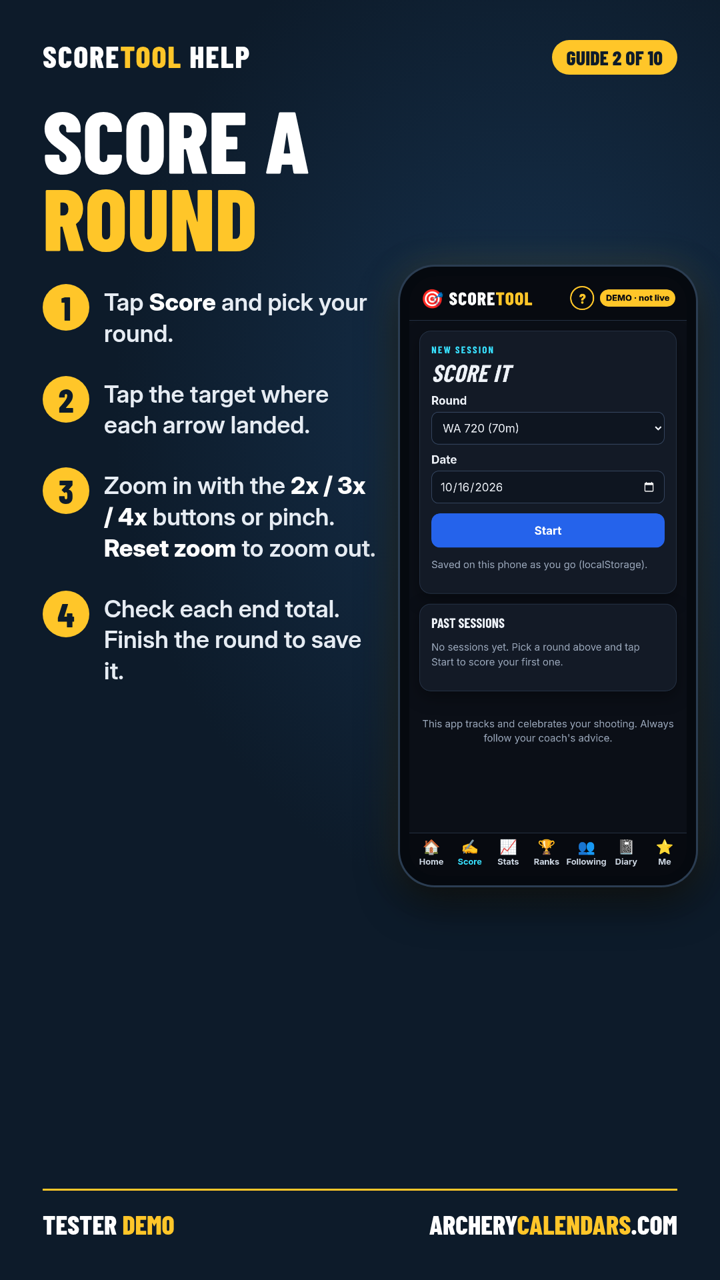
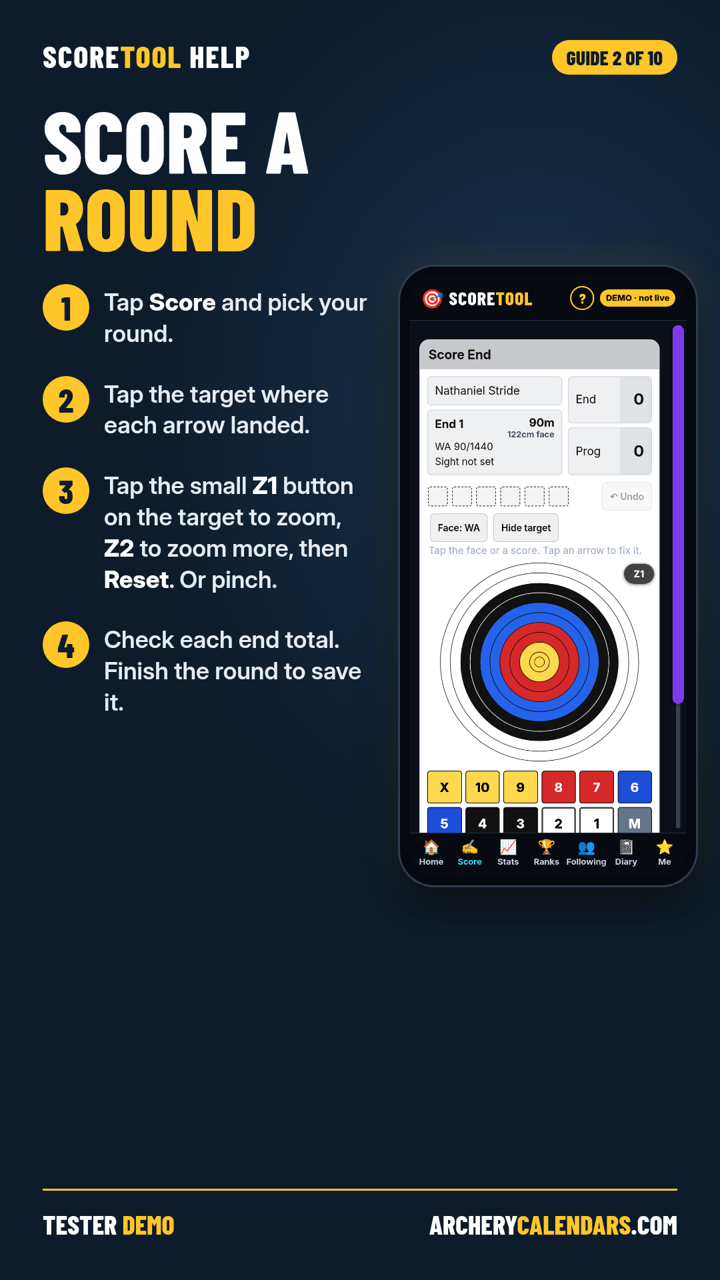
Scoring screen: one small zoom button cycling Z1 (2x) -> Z2 (3x) -> Reset in the target corner (pinch kept); face size moved from the target pill into the End card under the distance, round name on the second line; score keys highest first (X 10 9 8 7 6 / 5 4 3 2 1 M, field 6..1 M). Rename 'My other

Changed region(s): [[0.5806, 0.25, 0.9472, 0.6562], [0.0611, 0.375, 0.5194, 0.5625]]

diff --git a/app.js b/app.js
@@ -277,15 +277,15 @@ function score(){regCustom();if(!cur){if(crEdit)return roundForm();const mine=(S
  const FR0=faceR(R,ei),FR=cur.bugs?{face:'Bugs Eyes field 3-spot',bugs:true,dist:FR0.dist}:FR0,SP=isBug(FR)&&cur.spot?BUGC[cur.spot-1]:null,vb=SP?`${SP[0]-0.31} ${SP[1]-0.31} 0.62 0.62`:faceVB(FR),bcol=k=>isBug(FR)||isFld(FR)?(k=='M'?'k-m':+k>=5?'k-y':'k-k'):col(k),d=distOf(FR,cur.round);
  const shown=fix?[...(P[fix[0]]||[])].map((p,j)=>p&&{...p,sel:j==fix[1]}).filter(Boolean):(P[ei]||[]).filter(Boolean);
  const endDone=e.length==R.ape,prog=cur.ends.slice(0,ei+1).reduce((t,y)=>t+endSum(y),0),locked=endDone&&!fix;
- /* score keys in one or two compact rows, low to high (M 1 2 ... 10 X) */const xk=R.xs===false?[]:['X'],keys=isBug(FR)||isFld(FR)?['M','1','2','3','4','5','6']:['M',...(isSpot(FR)?['6','7','8','9','10']:isSix(FR)?['5','6','7','8','9','10']:['1','2','3','4','5','6','7','8','9','10']),...xk],kcols=keys.length>8?Math.ceil(keys.length/2):keys.length;
+ /* score keys in one or two compact rows, highest first (X 10 9 ... 1 M) */const xk=R.xs===false?[]:['X'],keys=isBug(FR)||isFld(FR)?['6','5','4','3','2','1','M']:[...xk,...(isSpot(FR)?['10','9','8','7','6']:isSix(FR)?['10','9','8','7','6','5']:['10','9','8','7','6','5','4','3','2','1']),'M'],kcols=keys.length>8?Math.ceil(keys.length/2):keys.length;
  const sm=typeof sightFor=='function'&&d?sightFor(d):'';
  const y0=scrollY;app.innerHTML=`<div class="ad"><div class="ad-title">Score End${R.custom?' · practice':''}</div>
- <div class="ad-head"><div class="ad-left"><div class="ad-box">${esc(S.profile)}</div><div class="ad-box"><div class="row"><b>End ${ei+1}</b><b>${esc(d||'')}</b></div><div>${esc(faceName(FR))}</div>${d?`<div class="small" id="sighttag">Sight ${sm?esc(sm):'not set'}</div>`:''}</div></div>
+ <div class="ad-head"><div class="ad-left"><div class="ad-box">${esc(S.profile)}</div><div class="ad-box"><div class="row ad-endrow"><b>End ${ei+1}</b><span class="ad-dist">${d?`<b id="enddist">${esc(d)}</b>`:''}<span id="facesize">${esc(faceSize(FR))}</span></span></div><div class="small" id="roundname">${esc(cur.round.replace(/\s*\([^)]*\)\s*$/,''))}</div>${d?`<div class="small" id="sighttag">Sight ${sm?esc(sm):'not set'}</div>`:''}</div></div>
  <div class="ad-right"><div class="ad-num"><span>End</span><b>${endSum(e)}</b></div><div class="ad-num"><span>Prog</span><b>${prog}</b></div></div></div>
  <div class="ad-chips" aria-label="Arrows this end">${Array.from({length:R.ape},(_,j)=>e[j]!=null?`<span class="adb ${bcol(e[j])}" role="button" tabindex="0" data-fix="${ei},${j}" aria-label="fix arrow ${e[j]}"${fix&&fix[0]==ei&&fix[1]==j?' style="outline:3px solid #7c3aed;outline-offset:2px"':''}>${e[j]}</span>`:'<span class="adb adb-empty"></span>').join('')}
  <button class="ad-small" id="undo" ${cur.ends.some(x=>x.length)&&!fix?'':'disabled'}>↶ Undo</button>${ei>0&&!fix?`<button class="ad-small" id="prevend">‹ End ${ei}</button>`:''}${fix?`<button class="ad-small" id="delarrow">✕ Delete arrow</button><button class="ad-small" id="fixcancel">Done</button>`:''}<button class="ad-small" id="bugface" aria-pressed="${!!cur.bugs}">${cur.bugs?'Face: Bugs Eyes':'Face: WA'}</button><button class="ad-small" id="hideface" aria-pressed="${!!S.hideFace}">${S.hideFace?'Show target':'Hide target'}</button></div>
  <p class="small muted" style="margin:2px 12px">${fix?'Tap the face or a score to fix this arrow.':locked?'End complete. Tap an arrow to fix it, or press Next.':'Tap the face or a score. Tap an arrow to fix it.'}</p>
- ${S.hideFace?'':`<div class="zbar" role="group" aria-label="Target zoom">${[1,2,3].map(k=>`<button class="zb${Math.round(PZ.k)==k&&(k>1||PZ.k==1)?' on':''}" data-z="${k}" aria-label="Zoom ${k}x">${k}x</button>`).join('')}<button class="zb" id="zreset" ${PZ.k==1?'disabled':''}>Reset zoom</button><span class="small muted">or pinch target</span></div>${isBug(FR)?`<div class="zbar" role="group" aria-label="Spot">${[0,1,2,3].map(n=>`<button class="zb${(cur.spot||0)==n?' on':''}" data-spot="${n}">${n?'Spot '+n:'All spots'}</button>`).join('')}</div>`:''}<div id="fwrap" style="position:relative;width:100%;height:${SP?"min(340px,40vh,40dvh)":isBug(FR)?"min(320px,calc(100vh - 530px),calc(100dvh - 530px))":"min(290px,36vh,36dvh)"};margin:0 auto;overflow:hidden;touch-action:none;border-radius:8px">${faceSVG(shown,'pface',vb,FR).replace('width="100%"','width="100%" height="100%"')}<div class="facetag" id="facetag" aria-hidden="true">${esc(faceTag(FR,d))}</div><div id="loupe" hidden style="position:absolute;width:110px;height:110px;border-radius:50%;overflow:hidden;border:3px solid #111;box-shadow:0 2px 8px #0006;pointer-events:none;background:#fff"></div></div>`}
+ ${S.hideFace?'':`${isBug(FR)?`<div class="zbar" role="group" aria-label="Spot">${[0,1,2,3].map(n=>`<button class="zb${(cur.spot||0)==n?' on':''}" data-spot="${n}">${n?'Spot '+n:'All spots'}</button>`).join('')}</div>`:''}<div id="fwrap" style="position:relative;width:100%;height:${SP?"min(340px,40vh,40dvh)":isBug(FR)?"min(320px,calc(100vh - 530px),calc(100dvh - 530px))":"min(290px,36vh,36dvh)"};margin:0 auto;overflow:hidden;touch-action:none;border-radius:8px">${faceSVG(shown,'pface',vb,FR).replace('width="100%"','width="100%" height="100%"')}<button type="button" class="zcyc" id="zcycle"></button><div id="loupe" hidden style="position:absolute;width:110px;height:110px;border-radius:50%;overflow:hidden;border:3px solid #111;box-shadow:0 2px 8px #0006;pointer-events:none;background:#fff"></div></div>`}
  <div class="ad-pad" style="--cols:${kcols}">${keys.map(k=>`<button class="${bcol(k)}" data-k="${k}" aria-label="score ${k}" ${locked?'disabled':''}>${k}</button>`).join('')}</div>
  <div class="ad-foot"><button class="ad-back" id="eback">‹ Back</button><button class="ad-go" id="enext" ${endDone&&!fix?'':'disabled'}>Next ›</button></div></div>`;
  scrollTo(0,y0);{const pd=app.querySelector('.ad-pad'),nv=document.querySelector('nav'),ak=cur.date+'|'+cur.round+'|'+ei+'|'+(cur.spot||0)+'|'+!!cur.bugs;if(pd){const fw0=$('#fwrap'),ch0=app.querySelector('.ad-chips'),hd0=(document.querySelector('header.top')||{getBoundingClientRect:()=>({bottom:0})}).getBoundingClientRect().bottom+4,lim0=innerHeight-(nv?nv.getBoundingClientRect().height:0)-8,need0=pd.getBoundingClientRect().bottom-ch0.getBoundingClientRect().top;if(fw0&&need0>lim0-hd0)fw0.style.height=Math.max(180,fw0.offsetHeight-(need0-(lim0-hd0)))+'px'}if(pd&&window._adk!==ak)window._adk=ak,requestAnimationFrame(()=>{const lim=innerHeight-(nv?nv.getBoundingClientRect().height:0)-8,hd=(document.querySelector('header.top')||{getBoundingClientRect:()=>({bottom:0})}).getBoundingClientRect().bottom+4,ch=app.querySelector('.ad-chips'),fw=$('#fwrap');let need=pd.getBoundingClientRect().bottom-ch.getBoundingClientRect().top,av=lim-hd;if(need>av&&fw){fw.style.height=Math.max(180,fw.offsetHeight-(need-av))+'px'}const over=Math.min(pd.getBoundingClientRect().bottom-lim,ch.getBoundingClientRect().top-hd);if(over>0)scrollBy(0,over)})}
@@ -295,9 +295,9 @@ function score(){regCustom();if(!cur){if(crEdit)return roundForm();const mine=(S
  app.querySelectorAll('[data-k]').forEach(b=>b.onclick=()=>putArrow(b.dataset.k,null));
  const f=$('#pface');if(f){const L=$('#loupe'),W=$('#fwrap');const B=vb.split(/[ ,]+/).map(Number),bc=[B[0]+B[2]/2,B[1]+B[3]/2];
   const clampZ=()=>{PZ.k=Math.min(4,Math.max(1,PZ.k));const fr=f.getBoundingClientRect(),ar=(fr.width||1)/(fr.height||1),Ew=Math.max(B[2],B[3]*ar),Eh=Math.max(B[3],B[2]/ar);const m=Ew/2*(1-1/PZ.k);PZ.cx=Math.min(m,Math.max(-m,PZ.cx));const my=Eh/2*(1-1/PZ.k);PZ.cy=Math.min(my,Math.max(-my,PZ.cy));if(PZ.k==1)PZ.cx=PZ.cy=0};
-  const applyZ=()=>{clampZ();const w=B[2]/PZ.k,h=B[3]/PZ.k;f.setAttribute('viewBox',`${bc[0]+PZ.cx-w/2} ${bc[1]+PZ.cy-h/2} ${w} ${h}`);app.querySelectorAll('[data-z]').forEach(x=>x.classList.toggle('on',PZ.k>1?Math.round(PZ.k)==+x.dataset.z:x.dataset.z=='1'));const r=$('#zreset');if(r)r.disabled=PZ.k==1};
+  const applyZ=()=>{clampZ();const w=B[2]/PZ.k,h=B[3]/PZ.k;f.setAttribute('viewBox',`${bc[0]+PZ.cx-w/2} ${bc[1]+PZ.cy-h/2} ${w} ${h}`);const zc=$('#zcycle');if(zc){const st=zStep(PZ.k);zc.textContent=['Z1','Z2','Reset'][st];zc.setAttribute('aria-label',['Zoom in to 2x','Zoom in to 3x','Reset zoom'][st]);zc.classList.toggle('on',st>0)}};
   f.style.touchAction='none';W.style.touchAction='none';W.style.overscrollBehavior='contain';let pan=null;applyZ();
-  app.querySelectorAll('[data-z]').forEach(x=>x.onclick=()=>{PZ.k=+x.dataset.z;applyZ()});$('#zreset').onclick=()=>{PZ.k=1;applyZ()};
+  /* one small button cycles Z1 (2x) -> Z2 (3x) -> Reset (1x); its label is what the next tap does. Pinch still works. */$('#zcycle').onclick=ev=>{ev.stopPropagation();const st=zStep(PZ.k);PZ.k=ZLV[(st+1)%3];if(PZ.k==1)PZ.cx=PZ.cy=0;applyZ()};
   const pt=ev=>{const q=f.createSVGPoint();q.x=ev.clientX;q.y=ev.clientY;return q.matrixTransform(f.getScreenCTM().inverse())};
   const show=ev=>{const q=pt(ev),r=W.getBoundingClientRect();L.hidden=false;L.style.left=Math.max(4,Math.min(r.width-114,ev.clientX-r.left-55))+'px';L.style.top=Math.max(4,Math.min(r.height-114,ev.clientY-r.top-150))+'px';const lw=0.24/PZ.k;
    L.innerHTML=faceSVG(shown,'lf',`${q.x-lw/2} ${q.y-lw/2} ${lw} ${lw}`,FR,`<path d="M${q.x-lw/6} ${q.y}h${lw/3}M${q.x} ${q.y-lw/6}v${lw/3}" stroke="#a855f7" stroke-width="${0.006/PZ.k}"/><circle cx="${q.x}" cy="${q.y}" r="${0.012/PZ.k}" fill="none" stroke="#a855f7" stroke-width="${0.004/PZ.k}"/>`)+`<b style="position:absolute;bottom:4px;left:0;right:0;text-align:center;font-size:13px;background:#fffc">${plotScore(q.x,q.y,Object.assign({xs:R.xs},FR))}</b>`};
@@ -332,7 +332,8 @@ function score(){regCustom();if(!cur){if(crEdit)return roundForm();const mine=(S
  $('#eback').onclick=()=>{fix=null;fixRet=false;justDone=false;sv='sheet';score()};
  $('#enext').onclick=()=>{justDone=false;sv='sheet';score()}}
 const faceName=F=>F.bugs?'Bugs Eyes field 3-spot (6-1)':/field/.test(F.face||'')?'WA field face 20-80cm (6-1)':F.face=='any'?'Full 10-ring face':`${/^\d/.test(F.face)?'WA ':''}${F.face.replace(/ full$/,'').replace(/ (6-ring|3-spot)/,' ($1)')}`;
-const faceTag=(F,d)=>(F.bugs?'Bugs Eyes':/field/.test(F.face||'')?'Field face':F.face=='any'?'Full face':(((F.face||'').match(/(\d+)cm/)||[])[1]?(F.face.match(/(\d+)cm/)[1]+'cm face'):'Full face'))+(d?' · '+d:'');
+const ZLV=[1,2,3],zStep=k=>k<=1.001?0:k<2.999?1:2;/* 0: normal (shows Z1), 1: zoomed below 3x (shows Z2), 2: 3x or more (shows Reset) */
+const faceSize=F=>F.bugs?'Bugs Eyes 3-spot':isFld(F)?(((F.face||'').match(/(\d+(?:-\d+)?)cm/)||[])[1]||'')+'cm field face':F.face=='any'?'Full face':(m=>m?m[1]+'cm '+(isSix(F)?'6-ring':isSpot(F)?'3-spot':'face'):'Full face')((F.face||'').match(/(\d+)cm/));
 const distOf=(F,round)=>F.dist||((round.match(/(\d+(?:m|yd))/)||[])[1])||'';
 function sheetSections(s){const R=ROUNDS[s.round],out=[];s.ends.forEach((x,i)=>{const F=faceR(R,i),k=faceName(F)+(distOf(F,s.round)?' @ '+distOf(F,s.round):'');if(!out.length||out[out.length-1].k!=k)out.push({k,ends:[]});out[out.length-1].ends.push(i)});return out}
 var PZ=window.PZ||(window.PZ={k:1,cx:0,cy:0});

diff --git a/index.html b/index.html
@@ -1,7 +1,7 @@
 <!doctype html><html lang="en"><head><meta charset="utf-8"><meta name="viewport" content="width=device-width,initial-scale=1,maximum-scale=1,user-scalable=no,viewport-fit=cover">
-<title>ScoreTool demo · Archery Calendars</title><meta name="robots" content="noindex"><link rel="apple-touch-icon" href="icons/apple-touch-icon.png" sizes="180x180"><link rel="icon" type="image/png" href="favicon-32.png" sizes="32x32"><link rel="icon" type="image/png" href="favicon-16.png" sizes="16x16"><link rel="icon" href="favicon.ico" sizes="any"><link rel="icon" type="image/svg+xml" href="icons/icon.svg"><link rel="stylesheet" href="style.css?v=202610171614"><link rel="manifest" href="manifest.webmanifest"><meta name="theme-color" content="#0b0f17"><meta name="apple-mobile-web-app-capable" content="yes"><meta name="apple-mobile-web-app-title" content="ScoreTool"></head>
+<title>ScoreTool demo · Archery Calendars</title><meta name="robots" content="noindex"><link rel="apple-touch-icon" href="icons/apple-touch-icon.png" sizes="180x180"><link rel="icon" type="image/png" href="favicon-32.png" sizes="32x32"><link rel="icon" type="image/png" href="favicon-16.png" sizes="16x16"><link rel="icon" href="favicon.ico" sizes="any"><link rel="icon" type="image/svg+xml" href="icons/icon.svg"><link rel="stylesheet" href="style.css?v=202610171629"><link rel="manifest" href="manifest.webmanifest"><meta name="theme-color" content="#0b0f17"><meta name="apple-mobile-web-app-capable" content="yes"><meta name="apple-mobile-web-app-title" content="ScoreTool"></head>
 <body><header class="top"><div class="logo">🎯 Score<span>Tool</span></div><span class="demo-pill">DEMO · not live</span></header>
 <main id="app" aria-live="polite"></main><p class="small muted" style="text-align:center;margin:8px 16px 90px">This app tracks and celebrates your shooting. Always follow your coach's advice.</p>
 <nav class="tabs" id="tabs" aria-label="Sections">
 <button data-v="home">🏠<span>Home</span></button><button data-v="score">✍<span>Score</span></button><button data-v="stats">📈<span>Stats</span></button><button data-v="rewards">🏆<span>Ranks</span></button><button data-v="follow">👥<span>Following</span></button><button data-v="diary">📓<span>Diary</span></button><button data-v="me">⭐<span>Me</span></button></nav>
-<script src="coach_messages.js"></script><script src="ratings.js"></script><script src="rankings.js"></script><script src="tags.js?v=202610171614"></script><script src="testers.js?v=202610171614"></script><script src="app.js?v=202610171614"></script><script src="diary.js"></script><script src="gear.js"></script><script src="rewards.js"></script><script src="squads.js"></script><script src="fairplay.js"></script><script src="follow.js"></script><script src="help.js?v=202610171614"></script><script src="analytics.js?v=202610171614"></script><script src="insights.js?v=202610171614"></script><script src="best.js?v=202610171614"></script><script src="update.js?v=202610171614"></script></body></html>
+<script src="coach_messages.js"></script><script src="ratings.js"></script><script src="rankings.js"></script><script src="tags.js?v=202610171629"></script><script src="testers.js?v=202610171629"></script><script src="app.js?v=202610171629"></script><script src="diary.js"></script><script src="gear.js"></script><script src="rewards.js"></script><script src="squads.js"></script><script src="fairplay.js"></script><script src="follow.js"></script><script src="help.js?v=202610171629"></script><script src="analytics.js?v=202610171629"></script><script src="insights.js?v=202610171629"></script><script src="best.js?v=202610171629"></script><script src="update.js?v=202610171629"></script></body></html>

diff --git a/rewards.js b/rewards.js
@@ -212,7 +212,7 @@ function drawRecap(st,mn){const c=$('#rcv'),x=c.getContext('2d');const g=x.creat
  T.forEach(([k,v],i)=>{const cx=70+(i%2)*480,cy=380+Math.floor(i/2)*260;x.fillStyle='rgba(255,255,255,.06)';x.fillRect(cx,cy,440,220);x.fillStyle='#9aa7ba';x.font='700 36px Inter,sans-serif';x.fillText(k,cx+30,cy+60);x.fillStyle='#eef2f8';x.font='800 120px "Barlow Condensed",sans-serif';x.fillText(String(v),cx+30,cy+180)});
  x.fillStyle='#eef2f8';x.font='800 48px "Barlow Condensed",sans-serif';x.fillText('SCORE',70,1280);const w1=x.measureText('SCORE').width;x.fillStyle='#ffc629';x.fillText('TOOL',70+w1,1280);const w2=x.measureText('TOOL').width;x.fillStyle='#9aa7ba';x.font='500 30px Inter,sans-serif';x.fillText('archery calendars',90+w1+w2,1278)}
 window.EXTRA_VIEWS.recap=recapView;
-/* ---------- My other apps: archer's own links to outside apps. Stored locally. Quick-add example chips pre-fill the form; nothing is added until the archer taps Add. ---------- */
+/* ---------- Apps I use (internal id oapps / S.apps unchanged): archer's own links to outside apps. Stored locally. Quick-add example chips pre-fill the form; nothing is added until the archer taps Add. ---------- */
 const APP_CATS=['Sight marks','Video','Tuning','Other'];
 function appKind(u){try{const x=new URL(u);return/apps\.apple\.com$/.test(x.hostname)?'ios':/play\.google\.com$/.test(x.hostname)?'play':'web'}catch(e){return'web'}}
 const titleCase=t=>t.replace(/[-_.]+/g,' ').replace(/\b\w/g,c=>c.toUpperCase()).trim();
@@ -229,7 +229,7 @@ function appRec(a,old){const n=new Date().toISOString();return{id:(old&&old.id)|
 const isIOS=()=>/iPhone|iPad|iPod/.test(navigator.userAgent);
 function addApp(raw,cat){const u=normUrl(raw);if(!u)return false;S.apps=S.apps||[];if(!S.apps.some(a=>a.url==u))S.apps.push(appRec({url:u,name:appName(u)||u,cat:cat||''}));save();return true}
 function otherAppsCard(){const L=S.apps=S.apps||[],e=appEdit!=null?L[appEdit]:null;
- return`<div class="card" id="oapps"><span class="kicker">My other apps</span><h2>My other apps</h2>
+ return`<div class="card" id="oapps"><span class="kicker">Linked apps</span><h2>Apps I use</h2>
  ${L.length?L.map((a,i)=>`<div class="list-item row"><span style="min-width:0">${appIcon(a)}<a href="${esc(a.url)}" target="_blank" rel="noopener noreferrer"><b>${esc(a.name)}</b> ↗</a>${a.cat?` <span class="pill t-none">${esc(a.cat)}</span>`:''}<br><span class="small muted" style="word-break:break-all">${esc(a.url)}</span></span><span style="flex:0 0 auto"><button class="btn ghost" data-ae="${i}" style="padding:4px 10px;min-height:34px">Edit</button> <button class="btn ghost" data-ad="${i}" style="padding:4px 10px;min-height:34px">Delete</button></span></div>`).join(''):'<p class="muted">Add the apps you use for sight marks, video and tuning.</p>'}
  ${e?'':`<button class="btn full" id="apaste" style="margin-top:6px">Paste link</button><p class="small muted" style="margin:6px 0 0">${isIOS()?'Copy the app\'s link (in the App Store tap Share, then Copy Link), then tap Paste.':'Copy the app\'s link, then tap Paste. On Android you can also Share a Play Store or web link straight to ScoreTool once it\'s installed.'}</p>`}
  ${e?'':`<p class="small" style="margin:10px 0 4px"><b>Examples</b> (tap to fill in, then Add):</p><div style="display:flex;flex-wrap:wrap;gap:6px">${APP_EXAMPLES.map((x,i)=>`<button class="btn ghost" data-aex="${i}" style="padding:6px 10px;min-height:34px">+ ${esc(x[0])}</button>`).join('')}</div>`}

diff --git a/help.js b/help.js
@@ -1,16 +1,16 @@
 /* Help (?) posters + Send a suggestion (FormSubmit -> nfshold@gmail.com, same pattern as archerycalendars.com forms). */
 const HELP_POSTERS=[['01-getting-started','Getting started & picking your tester'],['02-scoring','Scoring a round: plot arrows, zoom'],['03-practice-goal','Practice arrows & daily goal'],
  ['04-stats','Stats: pick a round'],['05-ranks','Ranks, badges, XP & fair play'],['06-squads','Squads: join with a code, cheers'],['07-following','Following other archers'],
- ['08-other-apps','My other apps: Precision Cut, Garmin & more'],['09-diary','Diary'],['10-suggestion','Sending a suggestion']];
+ ['08-other-apps','Apps I use: Precision Cut, Garmin & more'],['09-diary','Diary'],['10-suggestion','Sending a suggestion']];
 const FORM_URL='https://formsubmit.co/nfshold@gmail.com';
 let lastTab='home';
 (function(){const top=document.querySelector('.top');if(top){const b=document.createElement('button');b.className='help-btn';b.setAttribute('aria-label','Help');b.textContent='?';b.onclick=()=>nav('help');top.appendChild(b)}
  const o=window.nav;window.nav=function(v){if(v!='help'&&v!='suggest')lastTab=v;return o(v)}})();
 function helpCards(){return`<div class="card"><span class="kicker">Help</span><h2>How to use ScoreTool</h2><p class="small">Quick picture guides for every part of the app.</p><button class="btn" onclick="nav('help')">Open Help</button> <button class="btn ghost" onclick="nav('suggest')">Send a suggestion</button></div>`}
 function helpView(){app.innerHTML=`<div class="card dark"><span class="kicker">Help</span><h1>How to use ScoreTool</h1><p>Tap a guide to see it full screen.</p></div>
-<div class="poster-grid">${HELP_POSTERS.map(([f,t])=>`<button class="poster" data-f="${f}"><img loading="lazy" src="help/${f}.png?v=20261016c" alt="${t}"><span>${t}</span></button>`).join('')}</div>
+<div class="poster-grid">${HELP_POSTERS.map(([f,t])=>`<button class="poster" data-f="${f}"><img loading="lazy" src="help/${f}.png?v=20261017a" alt="${t}"><span>${t}</span></button>`).join('')}</div>
 <div class="card"><h2>Got an idea or found a bug?</h2><button class="btn full" onclick="nav('suggest')">Send a suggestion</button></div>`;
- app.querySelectorAll('.poster').forEach(b=>b.onclick=()=>{const d=document.createElement('div');d.className='poster-full';d.innerHTML=`<img src="help/${b.dataset.f}.png?v=20261016c" alt=""><button class="btn" aria-label="Close">Close ✕</button>`;d.onclick=()=>d.remove();document.body.appendChild(d)})}
+ app.querySelectorAll('.poster').forEach(b=>b.onclick=()=>{const d=document.createElement('div');d.className='poster-full';d.innerHTML=`<img src="help/${b.dataset.f}.png?v=20261017a" alt=""><button class="btn" aria-label="Close">Close ✕</button>`;d.onclick=()=>d.remove();document.body.appendChild(d)})}
 function suggestView(){const who=TESTER?TESTER.name:'',tabs=['Home','Score','Stats','Ranks','Following','Diary','Me','Squads','Help','Other'],cur=(lastTab||'home');
  app.innerHTML=`<div class="card"><span class="kicker">Testers</span><h1>Send a suggestion</h1><p class="small muted">Goes straight to Nathe by email.</p>
  <form id="sgForm" method="POST" enctype="multipart/form-data" action="${FORM_URL}" target="sgFrame">

diff --git a/style.css b/style.css
@@ -136,7 +136,8 @@ html,body{touch-action:manipulation;-webkit-text-size-adjust:100%}
 @media(min-width:900px){.bs-a{min-width:30px;height:30px;font-size:14px}}
 
 /* scoring screen: face size tag + custom scroll bar */
-.facetag{position:absolute;top:6px;left:6px;background:#111d;color:#fff;font:700 12px var(--body);padding:3px 8px;border-radius:10px;pointer-events:none;letter-spacing:.02em}
+.zcyc{position:absolute;top:6px;right:6px;z-index:2;min-width:44px;height:30px;padding:0 9px;border-radius:15px;border:1px solid #fff8;background:#111c;color:#fff;font:800 13px var(--body);letter-spacing:.02em;box-shadow:0 1px 4px #0005;cursor:pointer;touch-action:manipulation}.zcyc.on{background:#7c3aedee;border-color:#c4b5fd}
+.ad-endrow{align-items:flex-start}.ad-dist{display:flex;flex-direction:column;align-items:flex-end;text-align:right;line-height:1.2}.ad-dist #facesize{font-size:12px;font-weight:600;color:#374151}
 #sbar{position:fixed;right:0;width:24px;z-index:7;touch-action:none;cursor:pointer}#sbar.left{right:auto;left:0}
 #sbar .sb-track{position:absolute;top:0;bottom:0;left:9px;width:6px;border-radius:3px;background:#94a3b855}
 #sbar .sb-thumb{position:absolute;top:0;left:4px;width:16px;border-radius:8px;background:#7c3aed;box-shadow:0 1px 4px #0006}

diff --git a/sw.js b/sw.js
@@ -1,2 +1,2 @@
-/* Minimal pass-through service worker so Android can install the app and use the share target. No caching. v2026-10-17-1614-scoring-fixes */
+/* Minimal pass-through service worker so Android can install the app and use the share target. No caching. v2026-10-17-1629-scoring-zoom-cycle */
 self.addEventListener('install',()=>self.skipWaiting());self.addEventListener('activate',e=>e.waitUntil(self.clients.claim()));self.addEventListener('fetch',()=>{});self.addEventListener('message',e=>{if(e.data&&e.data.type=='SKIP_WAITING')self.skipWaiting()});
